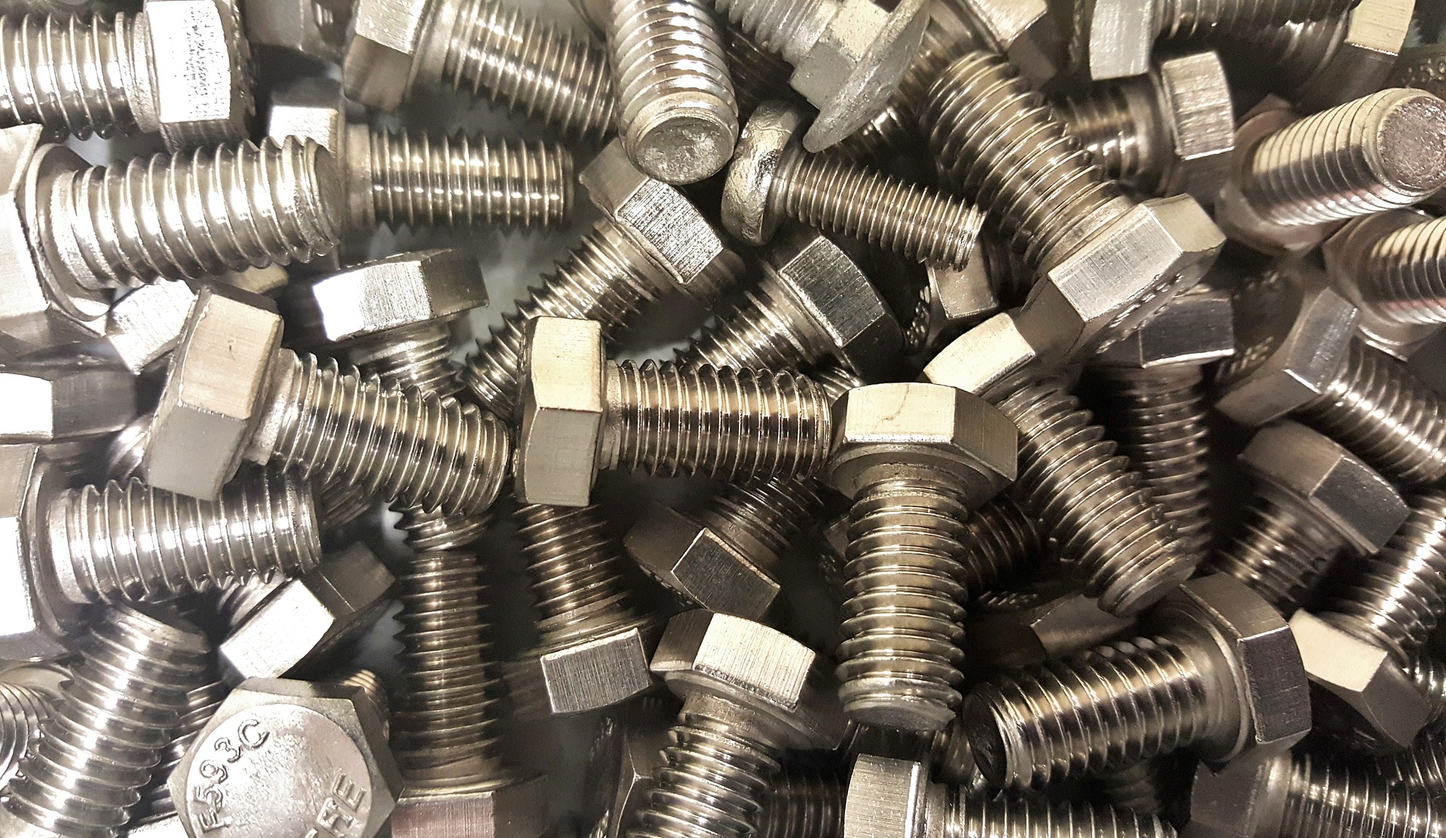
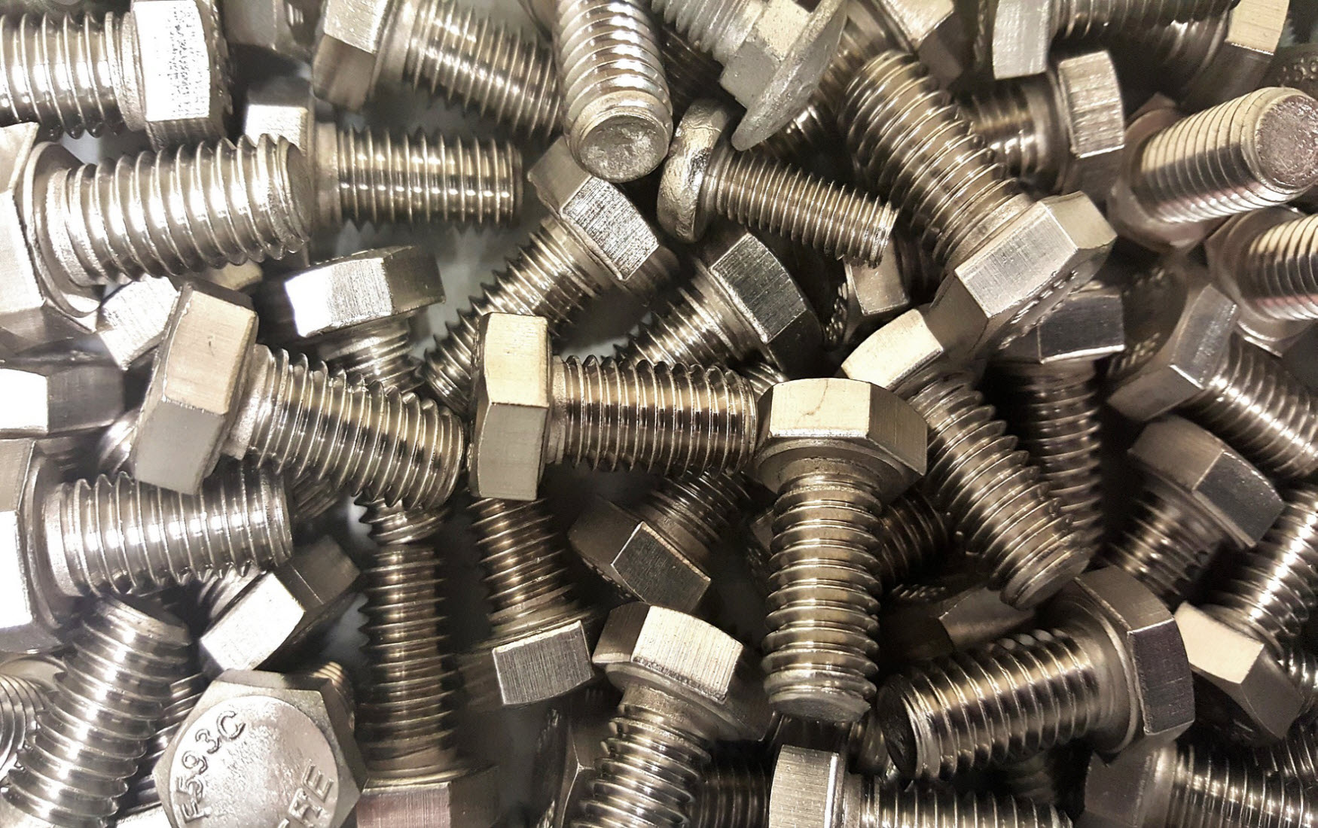
All pages, colour scheme and layout updated, new images included

diff --git a/index.html b/index.html
@@ -20,11 +20,11 @@
 <body>
 
     <section class="splash-page">
-        <div class="container">
+        <div class="container-fluid">
             <nav class="navbar navbar-default" >
                 <div class="navbar-header">
                     <a class="navbar-brand" href="#">
-                        <img src="img/bolt-logo.png" alt="Bolt Logo" aria-hidden="true">
+<!--                        <img src="img/logo.jpg" alt="Bolt Logo" aria-hidden="true">-->
                     </a>
                   <button type="button" class="navbar-toggle collapsed" data-toggle="collapse" data-target="#bs-example-navbar-collapse-1" aria-expanded="false">
                     <!--Hamburger Lines-->
@@ -55,39 +55,48 @@
 
     <section class="about-page">
         <div class="container">
-            <div class="row about-page-content js--wp-1">
-                <div class="col-lg-6 col-md-12 col-sm-12 col-xm-12">
-                    <p >Lorem ipsum dolor sit amet, consectetur adipiscing elit. Aliquam cursus porta tempor. Vestibulum sodales vestibulum quam at placerat. Donec dapibus ligula eget nulla auctor cursus ut quis urna. Pellentesque eget diam sagittis, sollicitudin ipsum id, posuere tellus. Maecenas efficitur dui non ex pharetra imperdiet. Vivamus pharetra nunc ac nisl commodo ultrices. Sed ligula augue, ullamcorper eget nulla bibendum, fringilla dictum lorem. Sed sollicitudin id nunc id semper. Pellentesque cursus feugiat velit ac rutrum. Mauris vel sodales massa. Lorem ipsum dolor sit amet, consectetur adipiscing elit. Aliquam cursus porta tempor. Vestibulum sodales vestibulum quam at placerat. Donec dapibus ligula eget nulla auctor cursus ut quis urna. Pellentesque eget diam sagittis, sollicitudin ipsum id, posuere tellus. Maecenas efficitur dui non ex pharetra imperdiet. Vivamus pharetra nunc ac nisl commodo ultrices. Sed ligula augue, ullamcorper eget nulla bibendum, fringilla dictum lorem. Sed sollicitudin id nunc id semper. Pellentesque cursus feugiat velit ac rutrum. Mauris vel sodales massa.</p>
-                </div>
-                <div class="col-lg-6 col-md-6 col-sm-12 col-xm-12">
-                    <img class="center-block" src="img/bolt-logo.png" alt="Bolt Logo" aria-hidden="true">
-                </div>
+            <div class="row">
+                 <div class="col-lg-12 col-md-12 col-sm-12 col-xm-12">
+                     <h1> ABOUT</h1>
+                 </div>
             </div>
-            <div class="row about-page-flags js--wp-1">
-                <div class="col-lg-6 col-md-6 col-sm-6 col-xm-6">
-                    <img class="center-block" src="img/russian-flag.jpg" alt="Bolt Logo" aria-hidden="true">
+            <div class="row about-page-content js--wp-1">
+                <div class="row js--wp-1">
+                    <div class="col-lg-4 col-md-4 col-sm-4 col-xm-12">
+                        <img class="center-block" src="img/russia.jpg" alt="Russian Flag" aria-hidden="true">
+                    </div>
+                    <div class="col-lg-4 col-md-4 col-sm-4 col-xm-12">
+                        <img class="center-block" src="img/logo.jpg" alt="UFA Flag" aria-hidden="true">
+                    </div>
+                    <div class="col-lg-4 col-md-4 col-sm-4 col-xm-12">
+                        <img class="center-block" src="img/ufa.jpg" alt="Bolt Logo" aria-hidden="true">
+                    </div>
                 </div>
-                <div class="col-lg-6 col-md-6 col-sm-6 col-xm-6">
-                    <img class="center-block" src="img/ufa-flag.jpg" alt="Bolt Logo" aria-hidden="true">
+                <div class="row">
+                    <div class="col-lg-12 col-md-12 col-sm-12 col-xm-12">
+                        <p>Lorem ipsum dolor sit amet, consectetur adipiscing elit. Aliquam cursus porta tempor. Vestibulum sodales vestibulum quam at placerat. Donec dapibus ligula eget nulla auctor cursus ut quis urna. Pellentesque eget diam sagittis, sollicitudin ipsum id, posuere tellus. Maecenas efficitur dui non ex pharetra imperdiet. Vivamus pharetra nunc ac nisl commodo ultrices. Sed ligula augue, ullamcorper eget nulla bibendum, fringilla dictum lorem. Sed sollicitudin id nunc id semper. Pellentesque cursus feugiat velit ac rutrum.</p>
+
+                        <p> Mauris vel sodales massa. Lorem ipsum dolor sit amet, consectetur adipiscing elit. Aliquam cursus porta tempor. Vestibulum sodales vestibulum quam at placerat. Donec dapibus ligula eget nulla auctor cursus ut quis urna. Pellentesque eget diam sagittis, sollicitudin ipsum id, posuere tellus. Maecenas efficitur dui non ex pharetra imperdiet. Vivamus pharetra nunc ac nisl commodo ultrices. Sed ligula augue, ullamcorper eget nulla bibendum, fringilla dictum lorem. Sed sollicitudin id nunc id semper. Pellentesque cursus feugiat velit ac rutrum. Mauris vel sodales massa.</p>
+                    </div>
                 </div>
             </div>
         </div>
     </section>
 
-    <section class="gallery-page">
+    <section class="product-page">
         <div class="container-fluid">
             <h1>Products</h1>
             <div class="row">
-                <a href="img/stud.jpg" data-toggle="lightbox" data-gallery="example-gallery" class="col-lg-3 col-md-3 col-sm-6 col-xm-12">
+                <a href="img/stud.jpg" data-toggle="lightbox" data-gallery="example-gallery" class="col-lg-3 col-md-6 col-sm-6 col-xm-12">
                     <img src="img/stud.jpg" class="img-fluid">
                 </a>
-                <a href="img/nuts.jpg" data-toggle="lightbox" data-gallery="example-gallery" class="col-lg-3 col-md-3 col-sm-6 col-xm-12">
+                <a href="img/nuts.jpg" data-toggle="lightbox" data-gallery="example-gallery" class="col-lg-3 col-md-6 col-sm-6 col-xm-12">
                     <img src="img/nuts.jpg" class="img-fluid">
                 </a>
-                <a href="img/screw.jpg" data-toggle="lightbox" data-gallery="example-gallery" class="col-lg-3 col-md-3 col-sm-6 col-xm-12">
-                    <img src="img/screw.jpg" class="img-fluid">
+                <a href="img/screws.jpg" data-toggle="lightbox" data-gallery="example-gallery" class="col-lg-3 col-md-6 col-sm-6 col-xm-12">
+                    <img src="img/screws.jpg" class="img-fluid">
                 </a>
-                <a href="img/bolts.jpg" data-toggle="lightbox" data-gallery="example-gallery" class="col-lg-3 col-md-3 col-sm-6 col-xm-12">
+                <a href="img/bolts.jpg" data-toggle="lightbox" data-gallery="example-gallery" class="col-lg-3 col-md-6 col-sm-6 col-xm-12">
                     <img src="img/bolts.jpg" class="img-fluid">
                 </a>
 
@@ -101,7 +110,7 @@
         <div class="container-fluid">
             <h1>Equipment</h1>
             <div class="row equipment-content js--wp-1">
-                <div class="col-lg-6 col-md-6 col-sm-12 col-xm-12">
+                <div class="col-lg-12 col-md-12 col-sm-12 col-xm-12">
                     <p>Предприятие имеет высокоточное механическое оборудование:</p>
                         <ul>
                             <li>Токарные станки 1К62;
@@ -117,15 +126,12 @@
                             <p>Предприятие обеспечивает качественное изготовлеие деталей по срочным заказам в срок 14 дней, применяется гибкая система скидок.</p>
                             <p>Возможно проектировение оснастки изделия по заказам, имеетса в наличии высокоточное контрольно-измерительное оборудование.</p>
                 </div>
-                <div class="col-lg-6 col-md-6 col-sm-12 col-xm-12">
-                    <img class="center-block" src="img/machine.jpg" alt="Bolt Logo" aria-hidden="true">
-                </div>
             </div>
 
         </div>
     </section>
 
-    <section class="map-page">
+    <section class="findus-page">
         <div class="row">
             <div class="col-lg-12 col-md-12 col-sm-12 col-xm-12">
                 <h1>Find us</h1>

diff --git a/css/style.css b/css/style.css
@@ -1,8 +1,10 @@
 /*-------------------------------------BASIC SET UP------------------------------------*/
 html,
 body {
-    background-color: rgb(121, 121, 121);
-    color: rgb(239, 239, 239);
+/*    background-color: rgb(121, 121, 121);*/
+    background-color: #9b9b9b;
+/*    color: rgb(239, 239, 239);*/
+    color: rgb(255, 255, 255);
     font-family: 'Lato', 'Arial', sans-serif;
     font-weight: 300;
     font-size: 20px;
@@ -11,17 +13,29 @@ body {
 
 h1 {
     font-size: 200%;
-    color: #d9d2d2;
+    color: #ffffff;
     font-weight: 300;
     word-spacing: 4px;
     letter-spacing: 1px;
     text-transform: uppercase;
+    text-align: center;
+    padding: 0 0 3% 0;
 }
 
 .btn{
     font-family: 'Lato', 'Arial', sans-serif;
     border: 1px solid #838383;
     background-color:#c4c4c4;
+}
+
+/*---------------ANIMATIONS-----------------*/
+.js--wp-1 {
+    opacity: 0;
+    animation-duration: 2s;
+}
+
+.js--wp-1.animated {
+    opacity: 1;
 }
 
 /*-----------------------------NAVIGATION BAR------------------------------------*/
@@ -34,11 +48,12 @@ h1 {
 
 /*-----Nav Bar Logo----*/
 .navbar-header img {
-    width: 120px;
-    height: 130px;
-/*    border-radius: 50%;*/
+/*    width: 120px;*/
+/*    height: 130px;*/
+    height: 700%;
     padding: 0;
     margin: 0;
+    border-radius: 50%;
 }
 
 /*----Nav Bar Titles----*/
@@ -70,18 +85,18 @@ h1 {
 /*-------------------------------------SPLASH PAGE------------------------------------*/
 
 .splash-page {
-    background-image: linear-gradient(rgba(0, 0, 0, 0.7), rgba(0, 0, 0, 0.7)), url(../img/splash_background.jpg);
+    background-image: linear-gradient(rgba(0, 0, 0, 0.7), rgba(0, 0, 0, 0.7)), url(../img/bolt4.jpg);
     background-size: cover;
-    background-position: left;
     height: 100vh;
     background-attachment: fixed;
+    padding: 0 5% 0 0;
 }
 
 .splash-page h1{
-    text-align: center;
+    text-align: right;
     font-size: 400%;
     font-weight: 400;
-    margin: 28% 0 0 0;
+    padding: 18% 8% 0 0;
 }
 
 
@@ -89,55 +104,28 @@ h1 {
 /*-------------------------------------ABOUT PAGE------------------------------------*/
 
 .about-page {
-    margin: 2% 0 0 0;
+    padding: 2% 0 2% 0;
 }
 
-.about-page-icons i{
-    padding:0;
-    font-size: 400%;
-    margin: 10% 0 0 50%;
-}
-
-
-/*---------------SOCAIL MEDIA ICONS ANIMATION-----------------*/
-.js--wp-1 {
-    opacity: 0;
-    animation-duration: 2s;
-}
-
-.js--wp-1.animated {
-    opacity: 1;
-}
-
-.about-page-content {
-    margin: 7% 0 0 0;
-}
 
 .about-page-content img {
-    width: 70%;
+    width: 80%;
     height: auto;
-/*    border-radius: 50%;*/
+    border-radius: 50%;
+    padding-left: 10px;
+    margin-top:2%;
+
 
 }
 
 .about-page-content p {
     font-size: 18px;
     text-align: center;
-    margin-bottom: 5%;
-}
-
-.about-page-flags {
-    padding: 0;
-    margin: 0;
-    margin: 2% 0 0 0;
-}
-
-.about-page-flags img {
-    width: 90%;
-    height: auto;
-    padding: 0;
     margin: 3% 0 0 0;
 }
+
+
+
 /* -- used to center image inside of col-lg-6 etc, already in bootstrap copied as an FYI---
 .center-block {
     display: block;
@@ -146,35 +134,31 @@ h1 {
  }
 */
 
-/*-------------------------------------GALLERY PAGE------------------------------------*/
+/*----------------------------------PRODUCT PAGE------------------------------------*/
 
 
-.gallery-page {
-    margin: 5% 0 0 0;
-}
-
-.gallery-page h1{
-    text-align: center;
-    padding: 0 0 1% 0;
+.product-page {
+    padding: 2% 0 0 0;
+    background-color: #acacac;
 
 }
 
-.gallery-page img {
+.product-page img {
     width: 100%;
-    height: 300px;
     margin: 0;
     padding: 0;
     opacity: 0.8;
     transition: transform 0.5s, opacity 0.5s;
+
 }
 
 
-.gallery-page a{
+.product-page a{
     padding: 0 !important;
 }
 
 
-.gallery-page img:hover {
+.product-page img:hover {
     opacity: 1;
     transform: scale(1.03);
     /*z-index: 1; position:relative; on zoom layers image on top of others*/
@@ -195,13 +179,19 @@ h1 {
 
 /*---------------------------------EQUIPMENT PAGE-----------------------------*/
 .equipment-page{
-    margin: 5% 0 0 0;
+    padding: 2% 0 0 0;
 }
 
-.equipment-page h1{
-    margin-bottom: 4%;
-    text-align: center;
+.equipment-content {
+    padding: 3% 0 0 0;
+    background-image: linear-gradient(rgba(0, 0, 0, 0.7), rgba(0, 0, 0, 0.7)), url(../img/machine.jpg);
+    background-size: cover;
+    background-position: left;
+    height: 70vh;
+    background-attachment: fixed;
+    font-size: 120%;
 }
+
 
 .equipment-page img {
     width: 100%;
@@ -228,14 +218,11 @@ h1 {
 /*------------------------------MAP PAGE----------------------------------*/
 
 
-.map-page{
-    margin: 2% 0 0 0;
+.findus-page{
+    padding: 2% 0 0 0;
+    background-color: #acacac;
 }
 
-.map-page h1{
-    text-align: center;
-    padding: 1% 0 1% 0;
-}
 
 /*.map {} styles the Google Map on our page*/
 .map {
